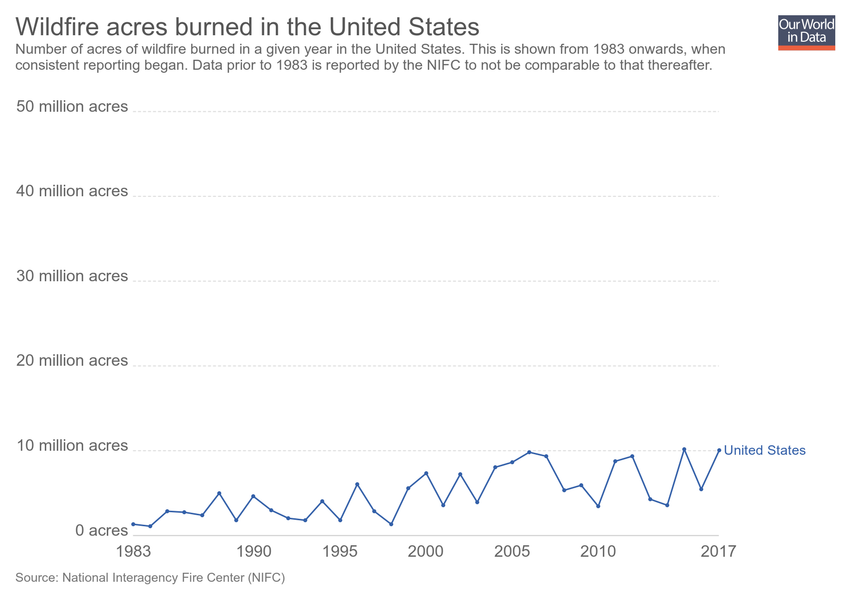
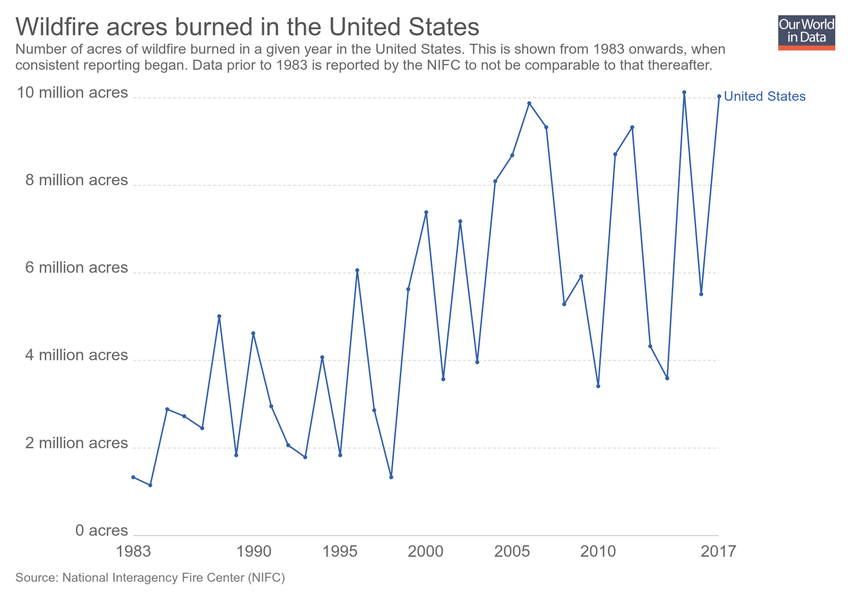
Updating chart acres-burned-usa

diff --git a/grapher/acres-burned-usa.html b/grapher/acres-burned-usa.html
@@ -1,4 +1,4 @@
-<!doctype html><html><head><meta name="viewport" content="width=device-width, initial-scale=1" /><title>Wildfire acres burned in the United States - Our World in Data</title><meta name="description" content="Number of acres of wildfire burned in a given year in the United States. This is shown from 1983 onwards, when consistent reporting began. Data prior to 1983 is reported by the NIFC to not be comparable to that thereafter." /><link rel="canonical" href="https://ourworldindata.org/grapher/acres-burned-usa" /><meta property="fb:app_id" content="1149943818390250" /><meta property="og:url" content="https://ourworldindata.org/grapher/acres-burned-usa" /><meta property="og:title" content="Wildfire acres burned in the United States" /><meta property="og:description" content="Number of acres of wildfire burned in a given year in the United States. This is shown from 1983 onwards, when consistent reporting began. Data prior to 1983 is reported by the NIFC to not be comparable to that thereafter." /><meta property="og:image" content="https://ourworldindata.org/grapher/exports/acres-burned-usa.png?v=1" /><meta property="og:image:width" content="850" /><meta property="og:image:height" content="600" /><meta property="og:site_name" content="Our World in Data" /><meta name="twitter:card" content="summary_large_image" /><meta name="twitter:site" content="@OurWorldInData" /><meta name="twitter:creator" content="@OurWorldInData" /><meta name="twitter:title" content="Wildfire acres burned in the United States" /><meta name="twitter:description" content="Number of acres of wildfire burned in a given year in the United States. This is shown from 1983 onwards, when consistent reporting began. Data prior to 1983 is reported by the NIFC to not be comparable to that thereafter." /><meta name="twitter:image" content="https://ourworldindata.org/grapher/exports/acres-burned-usa.png?v=1" /><style>
+<!doctype html><html><head><meta name="viewport" content="width=device-width, initial-scale=1" /><title>Wildfire acres burned in the United States - Our World in Data</title><meta name="description" content="Number of acres of wildfire burned in a given year in the United States. This is shown from 1983 onwards, when consistent reporting began. Data prior to 1983 is reported by the NIFC to not be comparable to that thereafter." /><link rel="canonical" href="https://ourworldindata.org/grapher/acres-burned-usa" /><meta property="fb:app_id" content="1149943818390250" /><meta property="og:url" content="https://ourworldindata.org/grapher/acres-burned-usa" /><meta property="og:title" content="Wildfire acres burned in the United States" /><meta property="og:description" content="Number of acres of wildfire burned in a given year in the United States. This is shown from 1983 onwards, when consistent reporting began. Data prior to 1983 is reported by the NIFC to not be comparable to that thereafter." /><meta property="og:image" content="https://ourworldindata.org/grapher/exports/acres-burned-usa.png?v=2" /><meta property="og:image:width" content="850" /><meta property="og:image:height" content="600" /><meta property="og:site_name" content="Our World in Data" /><meta name="twitter:card" content="summary_large_image" /><meta name="twitter:site" content="@OurWorldInData" /><meta name="twitter:creator" content="@OurWorldInData" /><meta name="twitter:title" content="Wildfire acres burned in the United States" /><meta name="twitter:description" content="Number of acres of wildfire burned in a given year in the United States. This is shown from 1983 onwards, when consistent reporting began. Data prior to 1983 is reported by the NIFC to not be comparable to that thereafter." /><meta name="twitter:image" content="https://ourworldindata.org/grapher/exports/acres-burned-usa.png?v=2" /><style>
         html, body {
             height: 100%;
             margin: 0;
@@ -20,8 +20,8 @@
         }
     </style><noscript><style>
                     figure { display: none !important; }
-                </style></noscript><link rel="stylesheet" href="https://ourworldindata.org/grapher/assets/commons.bundle.1fb9afe5c9103588de22.css" /><link rel="preload" href="/grapher/data/variables/98075.json?v=1" as="fetch" crossorigin /></head><body class="singleChart"><figure data-grapher-src="/grapher/acres-burned-usa"></figure><noscript id="fallback"><img src="/grapher/exports/acres-burned-usa.svg" /><p>Interactive visualization requires JavaScript</p></noscript><script src="https://cdn.polyfill.io/v2/polyfill.min.js?features=es6,fetch"></script><script src="https://ourworldindata.org/grapher/assets/commons.bundle.1fb9afe5c9103588de22.js"></script><script src="https://ourworldindata.org/grapher/assets/charts.bundle.1fb9afe5c9103588de22.js"></script><script>
-        var jsonConfig = {"map":{"projection":"World","colorSchemeLabels":[],"colorSchemeValues":[],"customNumericColors":[],"customCategoryColors":{},"customCategoryLabels":{},"customHiddenCategories":{}},"tab":"chart","slug":"acres-burned-usa","type":"LineChart","title":"Wildfire acres burned in the United States","xAxis":{"scaleType":"linear"},"yAxis":{"max":12000000,"min":0,"scaleType":"linear"},"maxTime":2017,"minTime":1983,"version":1,"subtitle":"Number of acres of wildfire burned in a given year in the United States. This is shown from 1983 onwards, when consistent reporting began. Data prior to 1983 is reported by the NIFC to not be comparable to that thereafter.","hasMapTab":false,"stackMode":"absolute","dimensions":[{"display":{"shortUnit":"acres"},"property":"y","variableId":98075}],"sourceDesc":"National Interagency Fire Center (NIFC)","hasChartTab":true,"isPublished":true,"selectedData":[{"index":0,"entityId":13}],"addCountryMode":"add-country","id":3063};
+                </style></noscript><link rel="stylesheet" href="https://ourworldindata.org/grapher/assets/commons.bundle.1fb9afe5c9103588de22.css" /><link rel="preload" href="/grapher/data/variables/98075.json?v=2" as="fetch" crossorigin /></head><body class="singleChart"><figure data-grapher-src="/grapher/acres-burned-usa"></figure><noscript id="fallback"><img src="/grapher/exports/acres-burned-usa.svg" /><p>Interactive visualization requires JavaScript</p></noscript><script src="https://cdn.polyfill.io/v2/polyfill.min.js?features=es6,fetch"></script><script src="https://ourworldindata.org/grapher/assets/commons.bundle.1fb9afe5c9103588de22.js"></script><script src="https://ourworldindata.org/grapher/assets/charts.bundle.1fb9afe5c9103588de22.js"></script><script>
+        var jsonConfig = {"id":3063,"map":{"projection":"World","colorSchemeLabels":[],"colorSchemeValues":[],"customNumericColors":[],"customCategoryColors":{},"customCategoryLabels":{},"customHiddenCategories":{}},"tab":"chart","slug":"acres-burned-usa","type":"LineChart","title":"Wildfire acres burned in the United States","xAxis":{"scaleType":"linear"},"yAxis":{"min":0,"scaleType":"linear"},"version":2,"subtitle":"Number of acres of wildfire burned in a given year in the United States. This is shown from 1983 onwards, when consistent reporting began. Data prior to 1983 is reported by the NIFC to not be comparable to that thereafter.","hasMapTab":false,"stackMode":"absolute","dimensions":[{"display":{"shortUnit":"acres"},"property":"y","variableId":98075}],"sourceDesc":"National Interagency Fire Center (NIFC)","hasChartTab":true,"isPublished":true,"selectedData":[{"index":0,"entityId":13}],"addCountryMode":"add-country"};
         var figure = document.getElementsByTagName("figure")[0];
         try {
             window.App = {};
